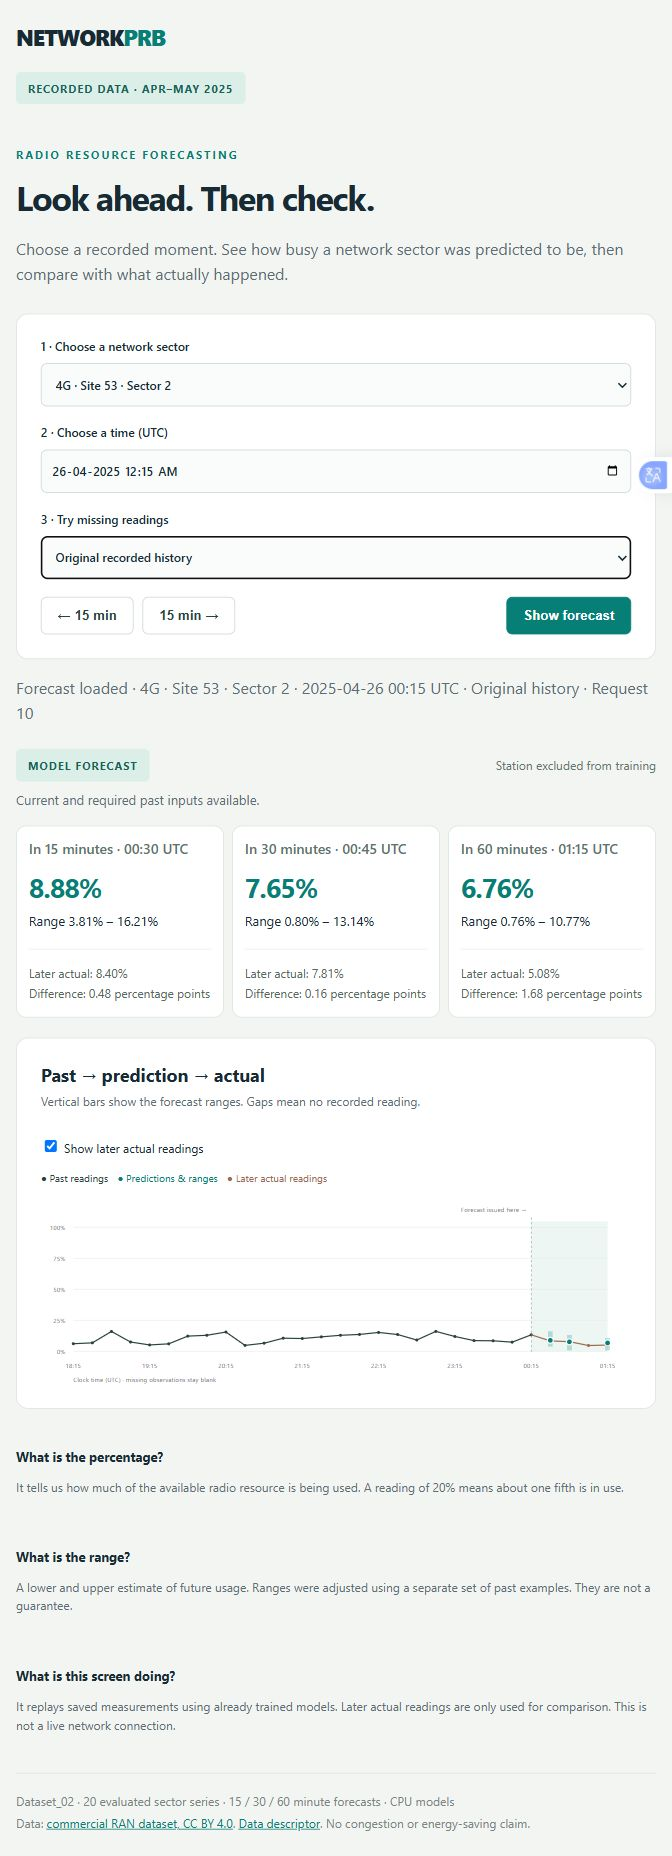
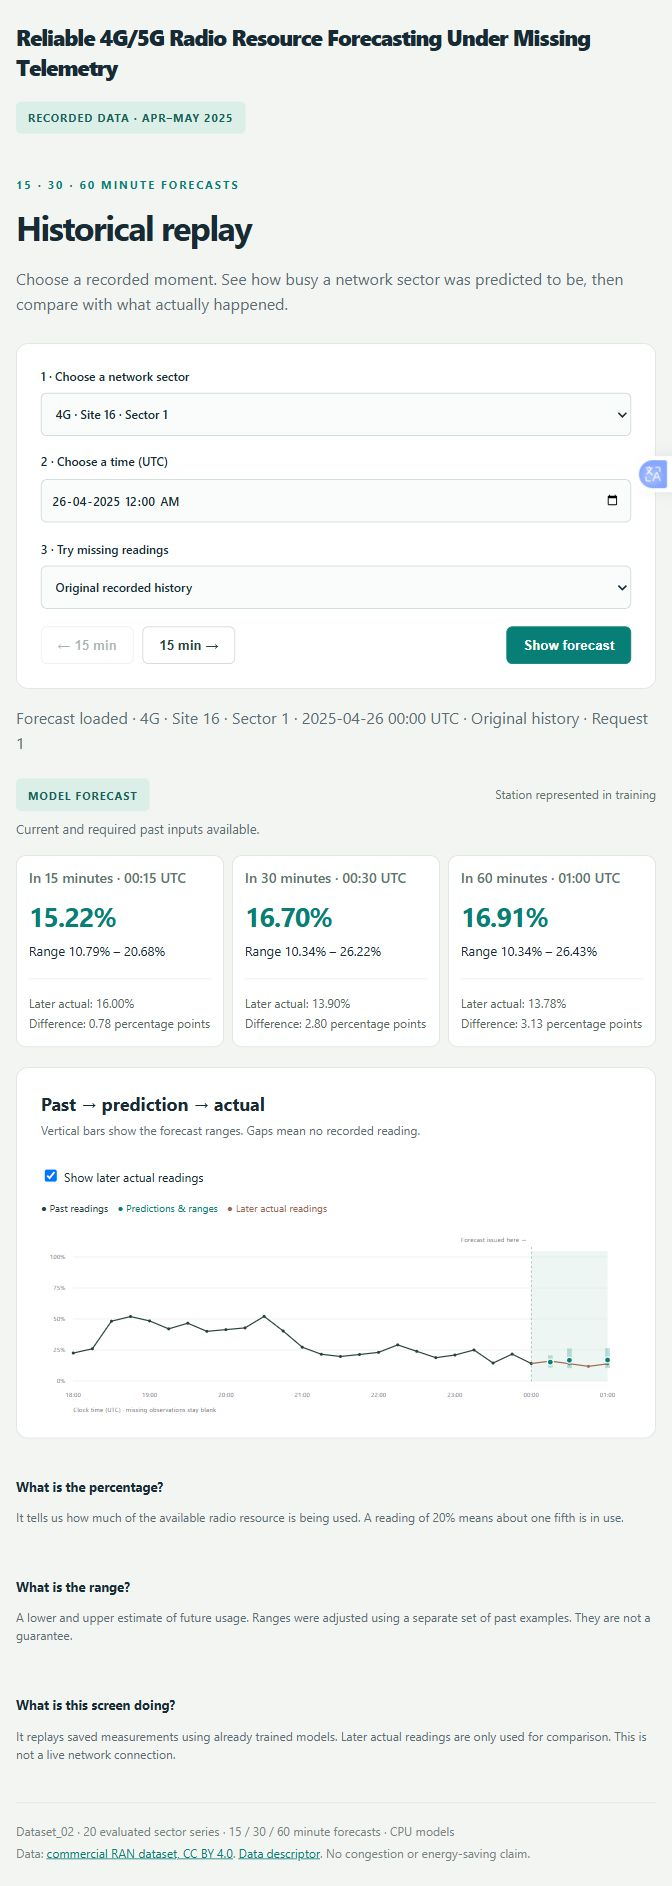
Restore original project title across repository and dashboard

diff --git a/networkprb/static/index.html b/networkprb/static/index.html
@@ -1,8 +1,8 @@
 <!doctype html>
-<html lang="en"><head><meta charset="utf-8"><meta name="viewport" content="width=device-width, initial-scale=1"><title>NetworkPRB · Historical replay</title><link rel="stylesheet" href="/style.css"><script src="/app.js" defer></script></head>
+<html lang="en"><head><meta charset="utf-8"><meta name="viewport" content="width=device-width, initial-scale=1"><title>Reliable 4G/5G Radio Resource Forecasting Under Missing Telemetry · Historical replay</title><link rel="stylesheet" href="/style.css"><script src="/app.js" defer></script></head>
 <body><main>
-<header><div class="brand">NETWORK<span>PRB</span></div><span class="badge">RECORDED DATA · APR–MAY 2025</span></header>
-<section class="intro"><p class="eyebrow">RADIO RESOURCE FORECASTING</p><h1>Look ahead. Then check.</h1><p>Choose a recorded moment. See how busy a network sector was predicted to be, then compare with what actually happened.</p></section>
+<header><div class="brand">Reliable 4G/5G Radio Resource Forecasting Under Missing Telemetry</div><span class="badge">RECORDED DATA · APR–MAY 2025</span></header>
+<section class="intro"><p class="eyebrow">15 · 30 · 60 MINUTE FORECASTS</p><h1>Historical replay</h1><p>Choose a recorded moment. See how busy a network sector was predicted to be, then compare with what actually happened.</p></section>
 <section class="controls" aria-label="Replay controls">
 <label>1 · Choose a network sector<select id="series" aria-label="Network sector"></select></label>
 <label>2 · Choose a time (UTC)<input id="origin" aria-label="Forecast time UTC" type="datetime-local" step="900"></label>

diff --git a/README.md b/README.md
@@ -1,6 +1,4 @@
-# NetworkPRB
-
-### Reliable 4G/5G radio-resource forecasting under missing telemetry
+# Reliable 4G/5G Radio Resource Forecasting Under Missing Telemetry
 
 Predict sector-level resource utilization **15, 30 and 60 minutes ahead** from real operational measurements. Compare lightweight CPU models, calibrate forecast ranges, test missing inputs, and inspect predictions through a local historical-replay dashboard.
 
@@ -85,8 +83,8 @@ This bounded experiment extracts **114,460 observed readings across 20 technolog
 Verified environment: **Windows x64, Python 3.13.4, CPU only**. No NVIDIA GPU is required. From a PowerShell terminal:
 
 ```powershell
-git clone https://github.com/Pavan-amikula/NetworkPRB.git
-cd NetworkPRB
+git clone https://github.com/Pavan-amikula/Reliable-4G-5G-Radio-Resource-Forecasting-Under-Missing-Telemetry.git
+cd Reliable-4G-5G-Radio-Resource-Forecasting-Under-Missing-Telemetry
 py -3.13 -m venv --without-pip .venv
 .\.venv\Scripts\python.exe -m ensurepip --upgrade
 .\.venv\Scripts\python.exe -m pip install --only-binary=:all: -r requirements-ml-lock.txt

diff --git a/docs/Project_Progress.md b/docs/Project_Progress.md
@@ -1,6 +1,6 @@
 # Implementation and evaluation status
 
-NetworkPRB is a local historical forecasting prototype. It extracts observed 4G/5G radio-resource utilization, compares CPU forecasting models, evaluates prediction ranges and missing inputs, and serves recorded-data replay through a local API and dashboard.
+Reliable 4G/5G Radio Resource Forecasting Under Missing Telemetry is a local historical forecasting prototype. It extracts observed 4G/5G radio-resource utilization, compares CPU forecasting models, evaluates prediction ranges and missing inputs, and serves recorded-data replay through a local API and dashboard.
 
 ## Completed components
 

diff --git a/CONTRIBUTING.md b/CONTRIBUTING.md
@@ -1,6 +1,6 @@
 # Development and evaluation rules
 
-NetworkPRB forecasts real 4G/5G radio-resource utilization 15, 30 and 60 minutes ahead. Read [the project overview](docs/START_HERE.md), [research notes](docs/Network_PRB_Research.md) and [reproduction guide](docs/Reproduce.md) before modifying the pipeline.
+Reliable 4G/5G Radio Resource Forecasting Under Missing Telemetry forecasts real 4G/5G radio-resource utilization 15, 30 and 60 minutes ahead. Read [the project overview](docs/START_HERE.md), [research notes](docs/Network_PRB_Research.md) and [reproduction guide](docs/Reproduce.md) before modifying the pipeline.
 
 ## Environment
 

diff --git a/docs/START_HERE.md b/docs/START_HERE.md
@@ -1,4 +1,4 @@
-# NetworkPRB: start here
+# Reliable 4G/5G Radio Resource Forecasting Under Missing Telemetry: start here
 
 ## What did we build?
 
